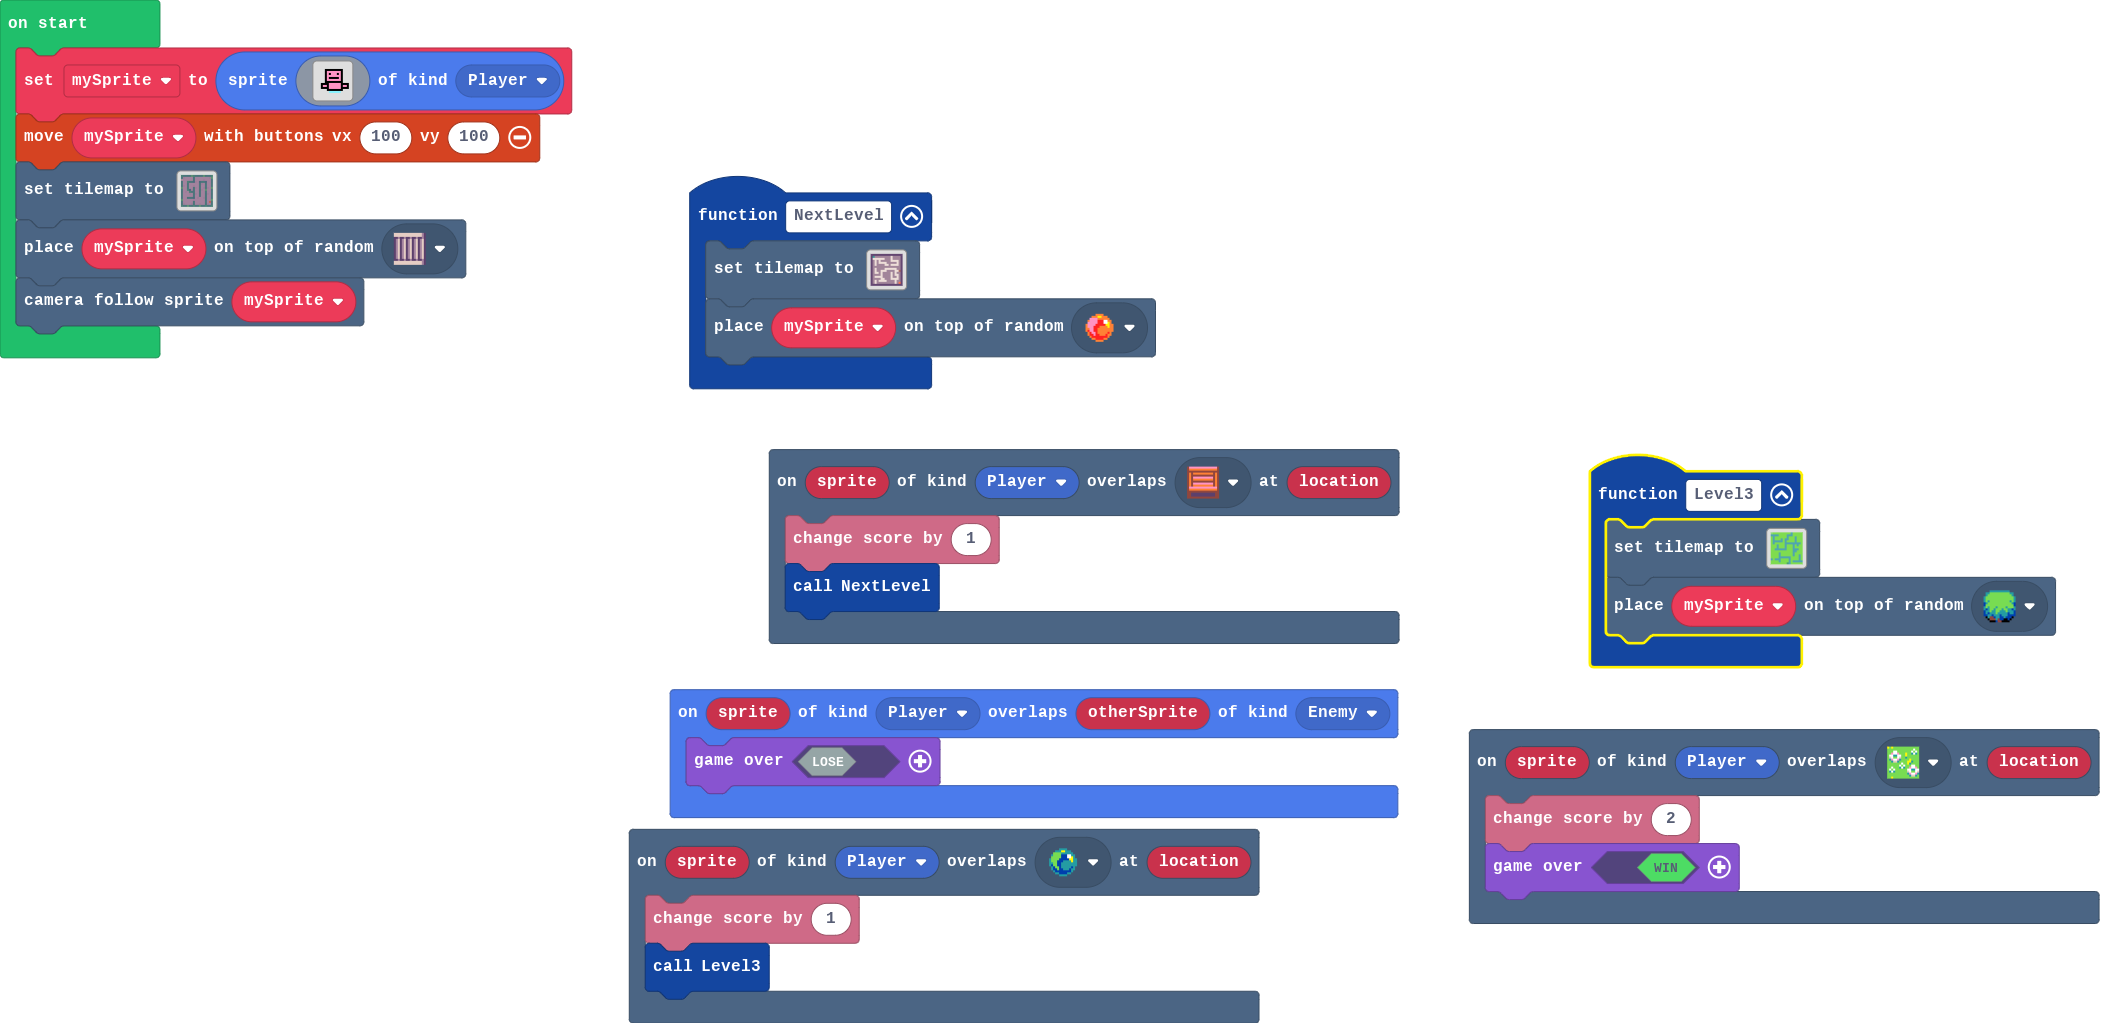
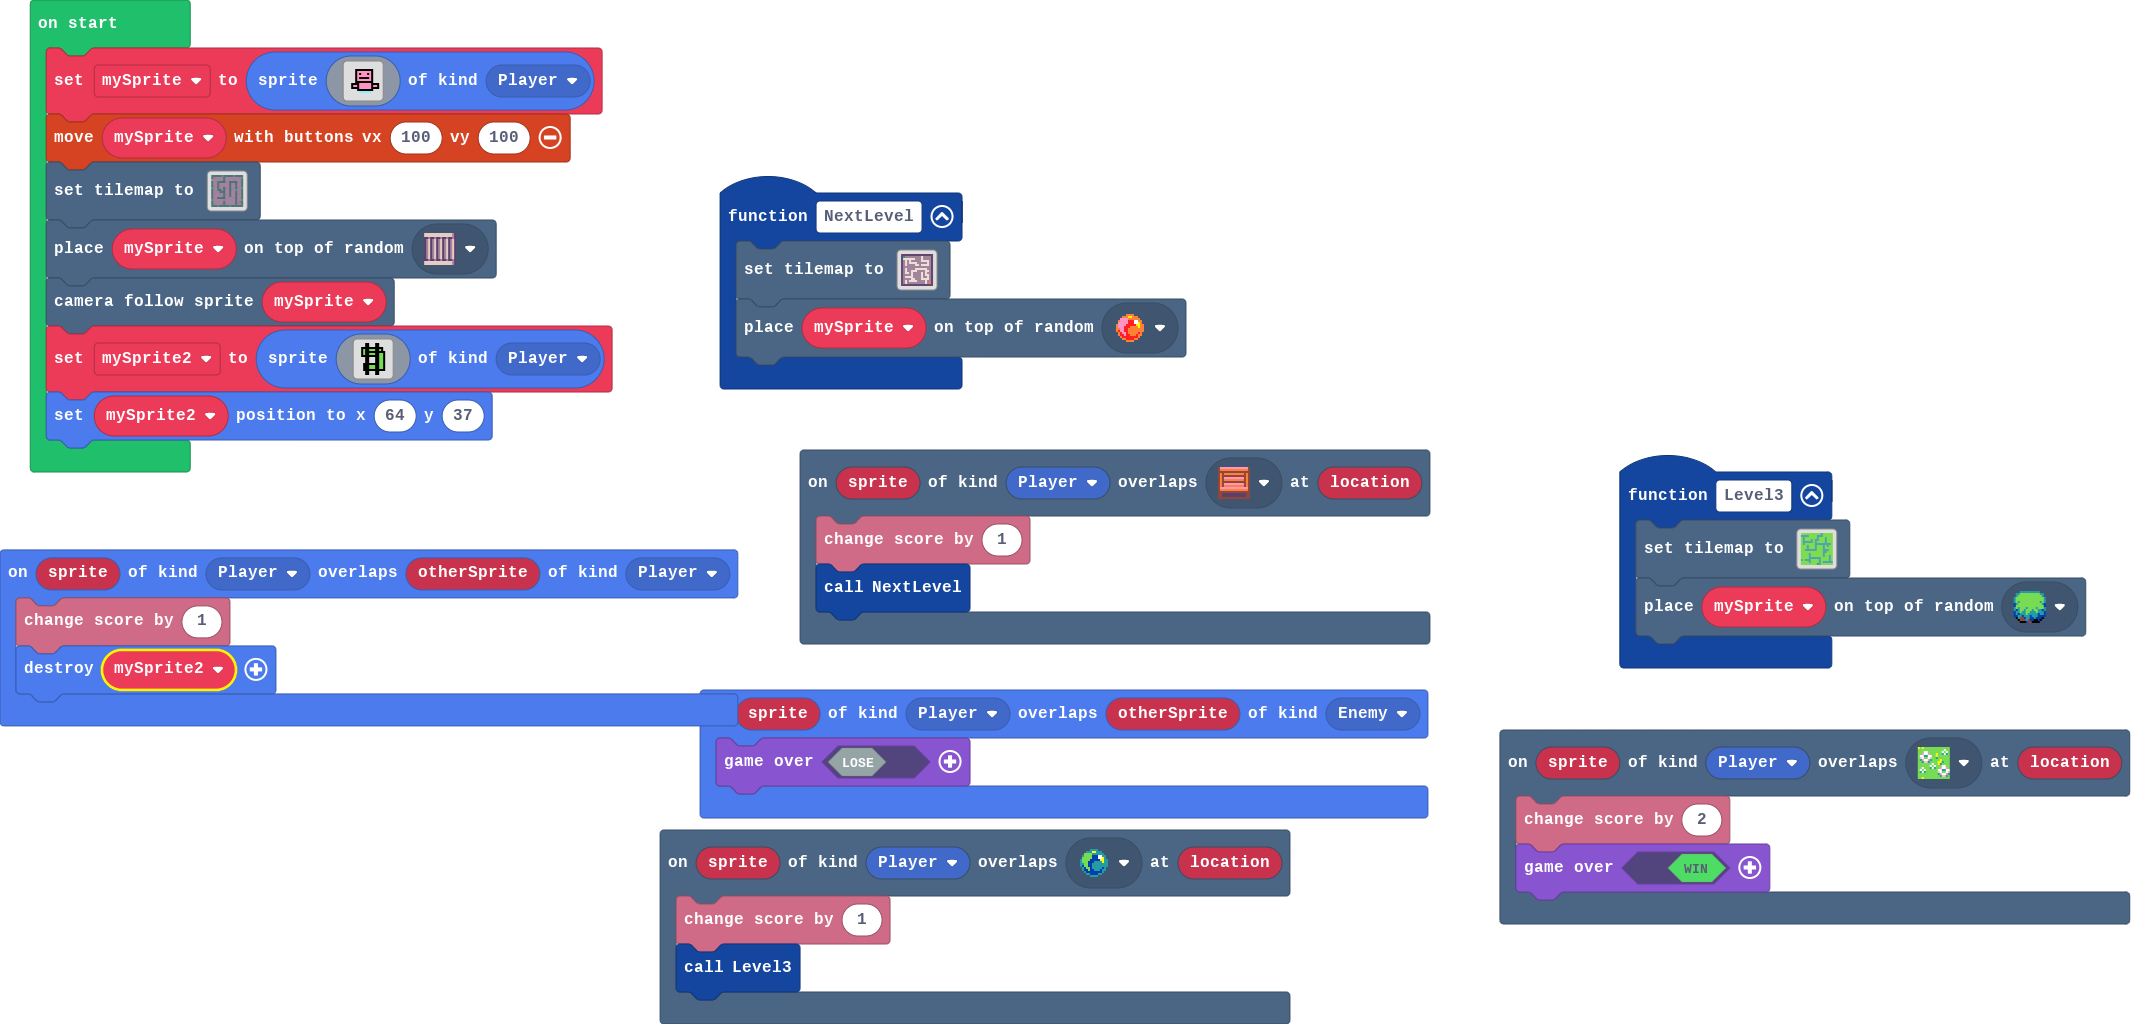
Update main.blocks, main.ts, tilemap.g.jres, tilemap.g.ts

diff --git a/tilemap.g.ts b/tilemap.g.ts
@@ -43,25 +43,6 @@ namespace myTiles {
 . . . . . . . . . . . . . . . . 
 . . . . . . . . . . . . . . . . 
 `, [myTiles.transparency16,sprites.dungeon.greenOuterNorthWest,sprites.dungeon.greenOuterNorth0,sprites.dungeon.greenOuterNorthEast,sprites.dungeon.greenOuterEast0,sprites.dungeon.greenOuterSouthWest,sprites.dungeon.greenOuterSouth0,sprites.dungeon.greenOuterSouth1,sprites.dungeon.greenOuterSouthEast,sprites.dungeon.greenOuterWest1,sprites.dungeon.greenOuterWest0,sprites.dungeon.floorDark2,sprites.dungeon.greenOuterNorth1,sprites.dungeon.greenOuterEast1,sprites.dungeon.floorDark5,sprites.dungeon.greenInnerNorthEast,sprites.dungeon.greenOuterWest2,sprites.dungeon.greenOuterEast2,sprites.dungeon.greenOuterNorth2,sprites.dungeon.greenOuterSouth2,sprites.dungeon.greenInnerNorthWest,sprites.dungeon.greenInnerSouthEast,myTiles.transparency16], TileScale.Sixteen);
-            case "level2":
[1 lines of base64/hex data omitted]
-2 2 2 2 2 2 2 2 2 2 2 2 2 2 2 2 
-2 . . . . . . . . . 2 . . . . 2 
-2 2 2 2 2 2 2 . . . 2 . . . . 2 
-2 . 2 . 2 . . . . . 2 2 2 2 . 2 
-2 . 2 . 2 2 2 2 . . . . . 2 . 2 
-2 . 2 . . . . 2 2 . 2 2 2 2 . 2 
-2 . . . . . . . . . . . . . . 2 
-2 . 2 . . . . 2 2 2 2 2 2 . . 2 
-2 . 2 . . 2 2 2 . . . . 2 2 . 2 
-2 . 2 2 . 2 . . . . 2 . 2 . . 2 
-2 . . . . 2 . . . . 2 . 2 2 . 2 
-2 . 2 2 2 2 . . . . 2 . . 2 . 2 
-2 . . . . 2 2 . . . 2 2 2 2 . 2 
-2 . 2 . 2 2 2 2 . . . . 2 . . 2 
-2 . 2 . . . . . . . . . 2 . . 2 
-2 2 2 2 2 2 2 2 2 2 2 2 2 2 2 2 
-`, [myTiles.transparency16,sprites.dungeon.darkGroundNorthWest0,sprites.dungeon.darkGroundNorth,sprites.dungeon.darkGroundEast,sprites.dungeon.darkGroundSouth,sprites.dungeon.darkGroundSouthEast0,sprites.dungeon.darkGroundSouthWest0,sprites.dungeon.darkGroundWest,sprites.dungeon.darkGroundNorthEast0,sprites.dungeon.collectibleBlueCrystal,sprites.dungeon.collectibleRedCrystal,sprites.builtin.brick,sprites.castle.rock0,sprites.dungeon.chestClosed], TileScale.Sixteen);
             case "level_1":
[1 lines of base64/hex data omitted]
 2 2 2 2 2 2 2 2 2 2 2 2 2 2 2 2 
@@ -100,6 +81,25 @@ namespace myTiles {
 . . . . 2 . . . . 2 . 2 2 2 2 2 
 . . . . . . . . . 2 . . . . . . 
 `, [myTiles.transparency16,sprites.builtin.forestTiles0,sprites.castle.tileGrass2,sprites.castle.tileGrass1,sprites.castle.tileDarkGrass2], TileScale.Sixteen);
+            case "level2":
[1 lines of base64/hex data omitted]
+2 2 2 2 2 2 2 2 2 2 2 2 2 2 2 2 
+2 . . . . . . . . . 2 . . . . 2 
+2 2 2 2 2 2 2 . . . 2 . . . . 2 
+2 . 2 . 2 . . . . . 2 2 2 2 . 2 
+2 . 2 . 2 2 2 2 . . . . . 2 . 2 
+2 . 2 . . . . 2 2 . 2 2 2 2 . 2 
+2 . . . . . . . . . . . . . . 2 
+2 . 2 . . . . 2 2 2 2 2 2 . . 2 
+2 . 2 . . 2 2 2 . . . . 2 2 . 2 
+2 . 2 2 . 2 . . . . 2 . 2 . . 2 
+2 . . . . 2 . . . . 2 . 2 2 . 2 
+2 . 2 2 2 2 . . . . 2 . . 2 . 2 
+2 . . . . 2 2 . . . 2 2 2 2 . 2 
+2 . 2 . 2 2 2 2 . . . . 2 . . 2 
+2 . 2 . . . . . . . . . 2 . . 2 
+2 2 2 2 2 2 2 2 2 2 2 2 2 2 2 2 
+`, [myTiles.transparency16,sprites.dungeon.darkGroundNorthWest0,sprites.dungeon.darkGroundNorth,sprites.dungeon.darkGroundEast,sprites.dungeon.darkGroundSouth,sprites.dungeon.darkGroundSouthEast0,sprites.dungeon.darkGroundSouthWest0,sprites.dungeon.darkGroundWest,sprites.dungeon.darkGroundNorthEast0,sprites.dungeon.collectibleBlueCrystal,sprites.dungeon.collectibleRedCrystal,sprites.builtin.brick,sprites.castle.rock0], TileScale.Sixteen);
         }
         return null;
     })

diff --git a/main.ts b/main.ts
@@ -14,6 +14,10 @@ function NextLevel () {
     tiles.setTilemap(tilemap`level2`)
     tiles.placeOnRandomTile(mySprite, sprites.dungeon.collectibleRedCrystal)
 }
+sprites.onOverlap(SpriteKind.Player, SpriteKind.Player, function (sprite, otherSprite) {
+    info.changeScoreBy(1)
+    mySprite2.destroy()
+})
 scene.onOverlapTile(SpriteKind.Player, sprites.castle.tileGrass2, function (sprite, location) {
     info.changeScoreBy(2)
     game.over(true)
@@ -21,6 +25,7 @@ scene.onOverlapTile(SpriteKind.Player, sprites.castle.tileGrass2, function (spri
 sprites.onOverlap(SpriteKind.Player, SpriteKind.Enemy, function (sprite, otherSprite) {
     game.over(false)
 })
+let mySprite2: Sprite = null
 let mySprite: Sprite = null
 mySprite = sprites.create(img`
     . . . . . . . . . . . . . . . . 
@@ -44,3 +49,22 @@ controller.moveSprite(mySprite, 100, 100)
 tiles.setTilemap(tilemap`level_1`)
 tiles.placeOnRandomTile(mySprite, sprites.dungeon.stairWest)
 scene.cameraFollowSprite(mySprite)
+mySprite2 = sprites.create(img`
+    . . . . f f . . . f f . . . . . 
+    . . . . f f . . . f f . . . . . 
+    . . f f f f f f f f f f f . . . 
+    . . f 7 f f 7 7 7 f f 7 f . . . 
+    . . f 7 f f f f f f f f f f . . 
+    . . f 7 f f 7 7 7 f f 7 7 f . . 
+    . . f f f f f f f f f 7 7 f . . 
+    . . . . f f . . . f f 7 7 f . . 
+    . . . . f f . . . f f 7 7 f . . 
+    . . . . f f . . . f f 7 7 f . . 
+    . . . f f f f f f f f 7 7 f . . 
+    . . . f f f 7 7 7 f f 7 7 f . . 
+    . . . f f f 7 7 7 f f 7 7 f . . 
+    . . . f f f f f f f f f f f . . 
+    . . . . f f . . . f f . . . . . 
+    . . . . f f . . . f f . . . . . 
+    `, SpriteKind.Player)
+mySprite2.setPosition(64, 37)
